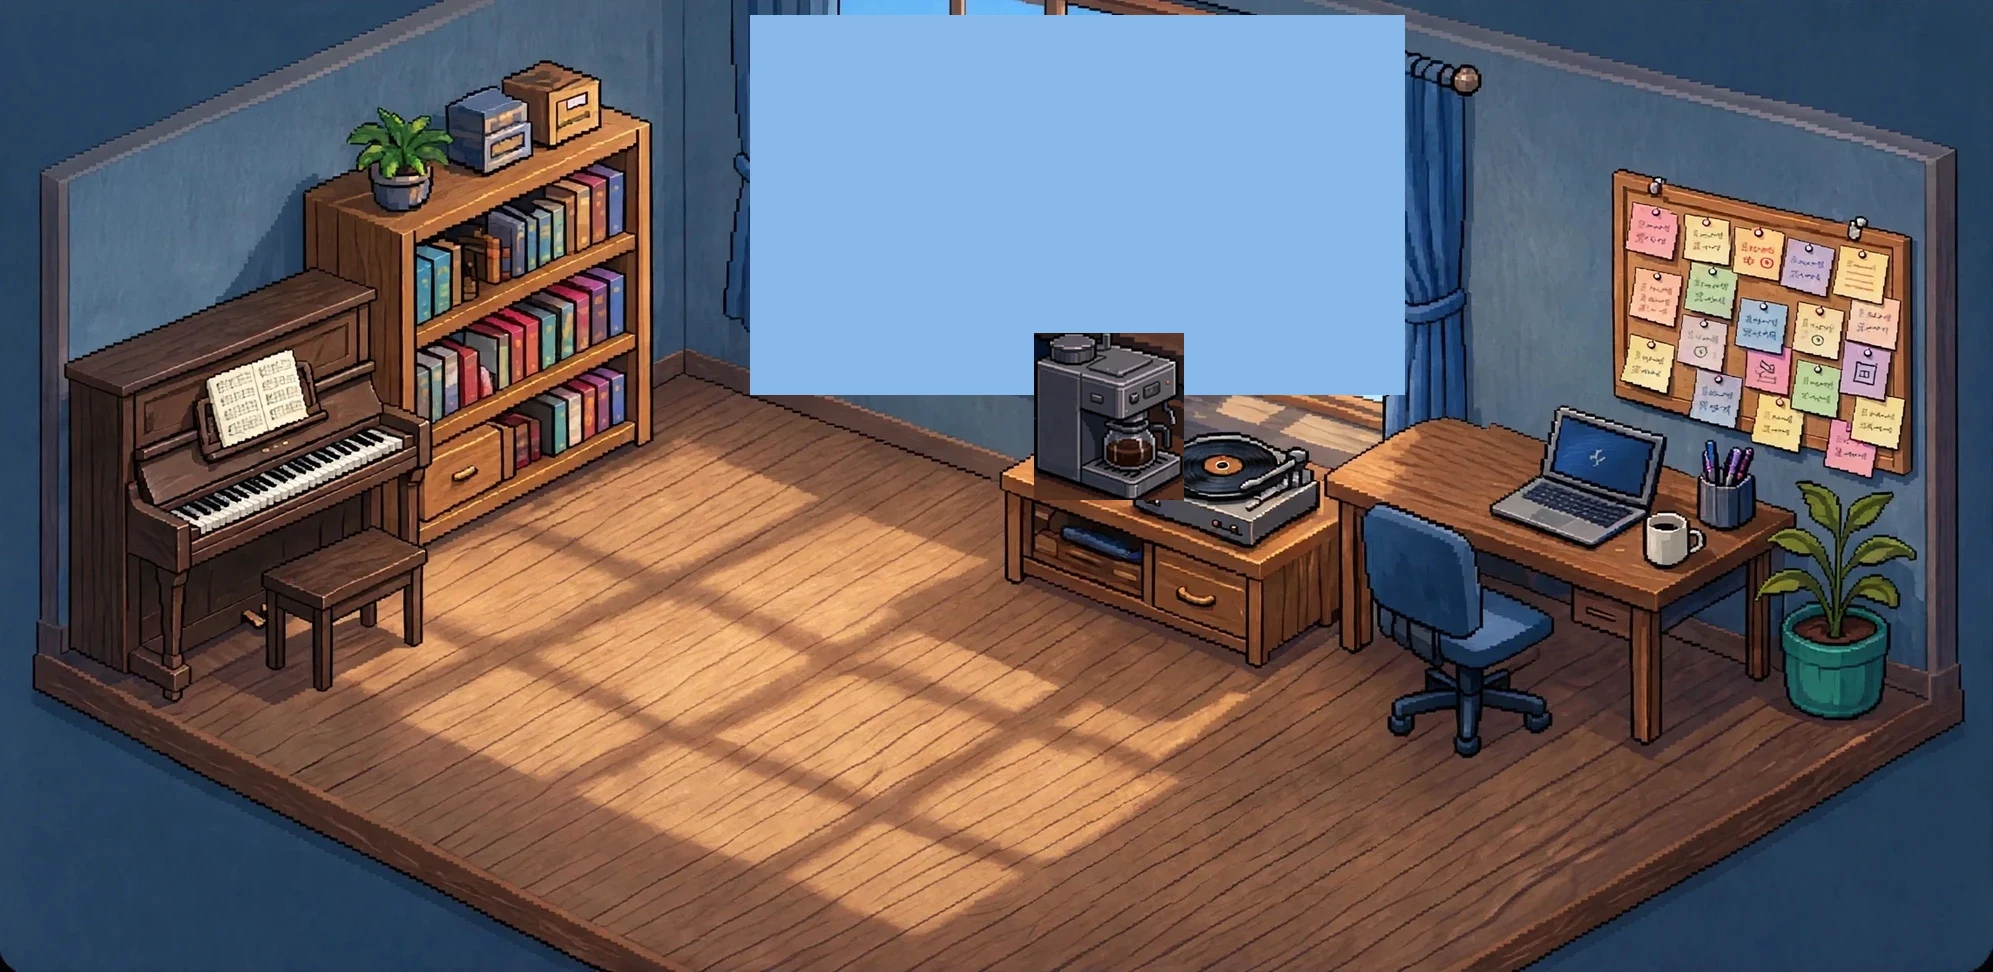
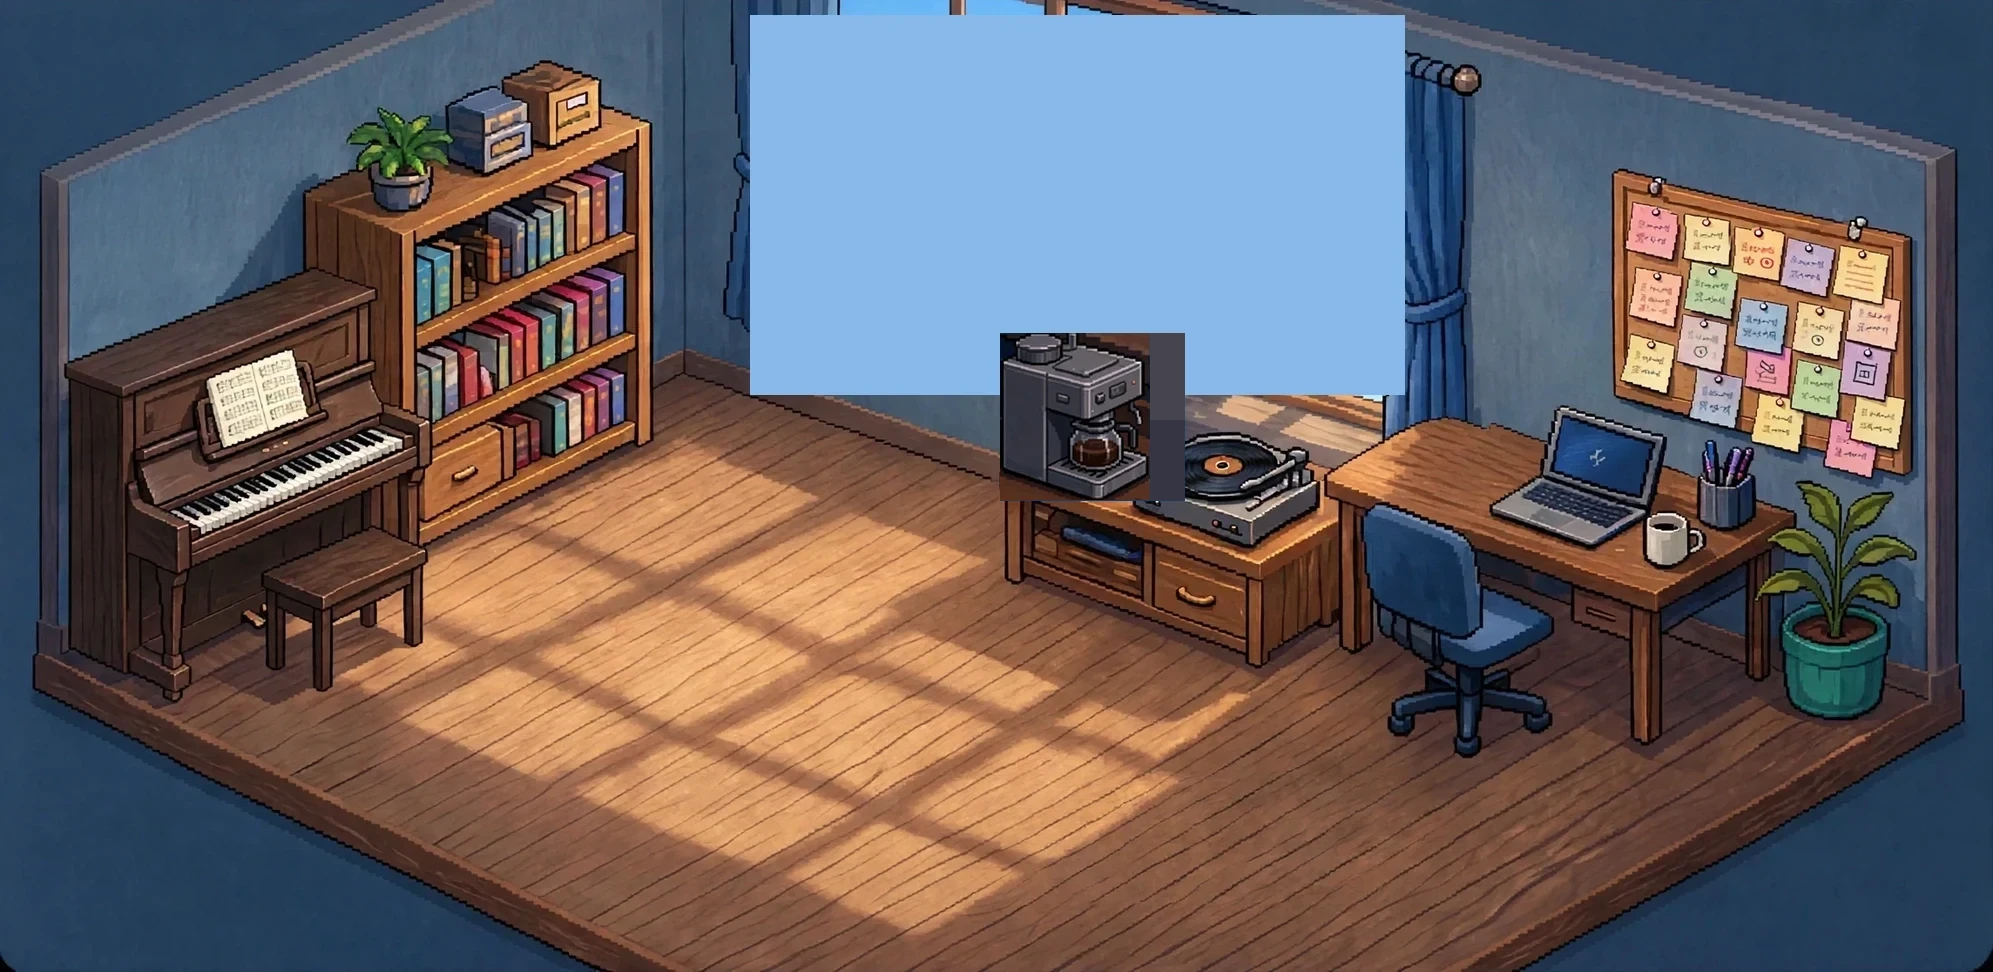
v5.0: SVG rebuild, single viewBox (no misalignment possible). Day/night plates cross-fade 06-18. SVG weather in window (Hangzhou live). Pixel-arrow hints, no text labels. Piano keys + vinyl with day/night coords. Tap-to-walk.

Changed region(s): [[0.4977, 0.3395, 0.6222, 0.5247]]

diff --git a/index.html b/index.html
@@ -19,6 +19,9 @@
   .hint.dim { opacity:.15; animation:none; }
   /* 人物阴影 */
   .shadow { fill:rgba(0,0,0,.28); }
+  /* 走路颠簸 */
+  @keyframes walkBob { 0%,100% { margin-top:0; } 50% { margin-top:-6px; } }
+  .walking { animation:walkBob .36s ease-in-out infinite; }
   /* 对话条 */
   #dialog { position:fixed; left:50%; transform:translateX(-50%); bottom:max(10px, env(safe-area-inset-bottom)); width:min(94vw,900px); z-index:50;
     background:#f7efdc; border:3px solid #7a5c3e; border-radius:12px; padding:10px 16px; font-size:16px; color:#4a3826;
@@ -39,7 +42,7 @@
 <div id="stage">
 <svg id="room" viewBox="0 0 1993 972" preserveAspectRatio="xMidYMid meet">
   <defs>
-    <clipPath id="winClip"><rect x="750" y="15" width="655" height="380" rx="4"/></clipPath>
+    <clipPath id="winClip"><rect x="735" y="12" width="550" height="248" rx="4"/></clipPath>
   </defs>
 
   <!-- ===== 底板（夜/日） ===== -->
@@ -48,26 +51,34 @@
 
   <!-- ===== 天气（窗户里） ===== -->
   <g id="wx" clip-path="url(#winClip)">
-    <rect id="wxSky" x="750" y="15" width="655" height="380" fill="#101a3d"/>
+    <rect id="wxSky" x="735" y="12" width="550" height="248" fill="#101a3d"/>
     <g id="wxSunMoon"></g>
     <g id="wxClouds"></g>
     <g id="wxCity"></g>
     <g id="wxPrecip"></g>
     <polygon id="wxBolt" points="" fill="#fffbe0" opacity="0"/>
-    <rect id="wxFlash" x="750" y="15" width="655" height="380" fill="#ffffff" opacity="0"/>
+    <rect id="wxFlash" x="735" y="12" width="550" height="248" fill="#ffffff" opacity="0"/>
   </g>
 
   <!-- ===== 钢琴键（12键） ===== -->
   <g id="keys"></g>
 
   <!-- ===== 唱片 ===== -->
+  <ellipse id="vinylShadow" cx="1249" cy="502" rx="58" ry="10" fill="rgba(0,0,0,.35)"/>
   <image id="vinyl" href="assets/disc.png" x="1191" y="429" width="116" height="77"/>
 
-  <!-- ===== 日历 ===== -->
+  <!-- ===== 日历（挂墙上） ===== -->
   <g id="cal">
+    <!-- 墙上的钉子 -->
+    <circle cx="1505" cy="88" r="6" fill="#4a4a4a" stroke="#222" stroke-width="2"/>
+    <!-- 挂绳 -->
+    <line x1="1505" y1="88" x2="1478" y2="118" stroke="#8a6d4a" stroke-width="3"/>
+    <line x1="1505" y1="88" x2="1532" y2="118" stroke="#8a6d4a" stroke-width="3"/>
+    <!-- 阴影（贴墙感） -->
+    <rect x="1449" y="124" width="120" height="180" rx="8" fill="rgba(0,0,0,.25)"/>
+    <!-- 本体 -->
     <rect x="1445" y="120" width="120" height="180" rx="8" fill="#f7f1e3" stroke="#7a5c3e" stroke-width="5"/>
     <rect x="1445" y="120" width="120" height="42" fill="#c0392b"/>
-    <circle cx="1475" cy="112" r="7" fill="#5a4a3a"/><circle cx="1535" cy="112" r="7" fill="#5a4a3a"/>
     <text id="calM" x="1505" y="150" text-anchor="middle" font-size="26" font-weight="700" fill="#fff">10月</text>
     <text id="calD" x="1505" y="225" text-anchor="middle" font-size="64" font-weight="800" fill="#333">21</text>
     <text id="calW" x="1505" y="268" text-anchor="middle" font-size="24" fill="#666">星期三</text>
@@ -91,7 +102,7 @@
 
   <!-- ===== 点击区 ===== -->
   <g id="zones" fill="#fff" opacity="0">
-    <rect data-id="piano" x="58" y="258" width="374" height="442"/>
+    <rect data-id="piano" x="58" y="258" width="182" height="442"/>
     <rect data-id="shelf" x="246" y="106" width="412" height="454"/>
     <rect data-id="window" x="735" y="5" width="685" height="400"/>
     <rect data-id="record" x="1000" y="420" width="353" height="232"/>
@@ -213,15 +224,31 @@ place(boy); place(girl);
 // 女孩跟着男孩
 let girlTarget = null;
 
-/* 简易寻路：直线 + 绕开猫 */
-const CAT = { x0:1032, x1:1265, y0:720, y1:806 };
+/* 寻路：直线 + 绕开障碍物（猫、家具） */
+const OBSTACLES = [
+  { x0:1032, x1:1265, y0:720, y1:806 },  // 猫
+  { x0:30, x1:450, y0:258, y1:700 },     // 钢琴
+  { x0:240, x1:660, y0:106, y1:560 },    // 书架
+  { x0:980, x1:1353, y0:380, y1:652 },   // 唱片柜
+  { x0:1290, x1:1770, y0:420, y1:730 },  // 书桌
+];
+function segHitsRect(x0,y0,x1,y1,r){
+  // 线段是否穿过矩形（简化：检查中点和端点）
+  const inR = (x,y)=> x>r.x0-20 && x<r.x1+20 && y>r.y0-20 && y<r.y1+20;
+  // 检查线段上的多个点
+  for(let t=0; t<=1; t+=0.1){
+    if(inR(x0+(x1-x0)*t, y0+(y1-y0)*t)) return true;
+  }
+  return false;
+}
 function planPath(x0,y0,x1,y1){
   const pts = [[x0,y0]];
-  // 如果直线穿过猫，加绕行点
-  const inCat = (x,y)=> x>CAT.x0-30 && x<CAT.x1+30 && y>CAT.y0-20 && y<CAT.y1+20;
-  if(inCat((x0+x1)/2,(y0+y1)/2) || inCat(x1,y1)){
-    pts.push([(CAT.x0+CAT.x1)/2, CAT.y1+60]);
-  }
+  // 找到所有会被穿过的障碍物，加绕行点（从下方绕过）
+  OBSTACLES.forEach(r=>{
+    if(segHitsRect(x0,y0,x1,y1,r)){
+      pts.push([(r.x0+r.x1)/2, r.y1+70]);
+    }
+  });
   pts.push([x1,y1]);
   return pts;
 }
@@ -229,6 +256,7 @@ let walking = false;
 function walkTo(tx, ty, done){
   if(walking) return; walking = true;
   dimHints(true);
+  boy.el.classList.add('walking'); girl.el.classList.add('walking');
   const path = planPath(boy.x, boy.y, tx, ty);
   let si = 0;
   const speed = 260; // px/s
@@ -243,6 +271,7 @@ function walkTo(tx, ty, done){
       si++;
       if(si >= path.length){
         walking = false; dimHints(false);
+        boy.el.classList.remove('walking'); girl.el.classList.remove('walking');
         // 女孩走过去
         walkGirl();
         if(done) done();
@@ -279,14 +308,22 @@ function walkGirl(){
   requestAnimationFrame(step);
 }
 
-const KEYS_NIGHT = { x0:171, y0:453, x1:396, y1:519 };
-const KEYS_DAY = { x0:175, y0:470, x1:375, y1:500 };
+// 钢琴键：实际键床位置（带透视），x 125-375, y 495-520，左低右高
+const KEYS_NIGHT = { x0:125, y0:495, x1:375, y1:520, skew:-0.08 };
+const KEYS_DAY = { x0:125, y0:495, x1:375, y1:520, skew:-0.08 };
 const KEYS = { n:12, els:[], cur:null };
 function buildKeys(pos){
   const g = $('keys'); g.innerHTML=''; KEYS.els=[];
-  const kw = (pos.x1-pos.x0)/KEYS.n;
+  const kw = (pos.x1-pos.x0)/KEYS.n, kh = pos.y1-pos.y0;
+  // 用 matrix 做透视倾斜：左低右高
+  const skewY = pos.skew * (pos.x1-pos.x0);
   for(let i=0;i<KEYS.n;i++){
-    const r = el('rect',{ x:pos.x0+i*kw+1, y:pos.y0, width:kw-2, height:pos.y1-pos.y0, fill:'#f2ede2', stroke:'#3a3128','stroke-width':1.5 },g);
+    const x = pos.x0 + i*kw;
+    // 每个键的 y 根据 x 位置做偏移（透视）
+    const yOff = (i/KEYS.n) * skewY;
+    const r = el('rect',{ x:x+1, y:pos.y0+yOff, width:kw-2, height:kh, fill:'#f2ede2', stroke:'#3a3128','stroke-width':1.5 },g);
+    // 给每个键单独的倾斜，让整体看起来有透视
+    r.setAttribute('transform', `skewY(${(pos.skew*57.3).toFixed(1)})`);
     KEYS.els.push(r);
   }
   KEYS.cur = pos;
@@ -294,12 +331,14 @@ function buildKeys(pos){
 function pressKey(i, down){
   const r = KEYS.els[i]; if(!r || !KEYS.cur) return;
   r.setAttribute('fill', down ? '#c9a86a' : '#f2ede2');
-  r.setAttribute('y', down ? KEYS.cur.y0+4 : KEYS.cur.y0);
+  const yOff = (i/KEYS.n) * KEYS.cur.skew * (KEYS.cur.x1-KEYS.cur.x0);
+  r.setAttribute('y', down ? KEYS.cur.y0+yOff+4 : KEYS.cur.y0+yOff);
 }
 /* ---------- 唱片（日夜双坐标） ---------- */
 const VINYL_NIGHT = { x:1191, y:429, w:116, h:77 };
 const VINYL_DAY = { x:1165, y:430, w:110, h:60 };
-function placeVinyl(pos){ const v=$('vinyl'); v.setAttribute('x',pos.x); v.setAttribute('y',pos.y); v.setAttribute('width',pos.w); v.setAttribute('height',pos.h); }
+function placeVinyl(pos){ const v=$('vinyl'); v.setAttribute('x',pos.x); v.setAttribute('y',pos.y); v.setAttribute('width',pos.w); v.setAttribute('height',pos.h);
+  const s=$('vinylShadow'); s.setAttribute('cx', pos.x+pos.w/2); s.setAttribute('cy', pos.y+pos.h+4); s.setAttribute('rx', pos.w/2); }
 
 /* ---------- 提示箭头（像素风） ---------- */
 const HINTS = [ ['piano',249,384], ['shelf',458,292], ['window',1096,160], ['record',1176,437], ['desk',1574,408], ['board',1764,292] ];
@@ -326,7 +365,7 @@ fetch('https://api.open-meteo.com/v1/forecast?latitude=30.2741&longitude=120.155
   }).catch(()=>{});
 
 /* ---------- SVG 天气（窗户里，750,15,655x380） ---------- */
-const WX = { x:750, y:15, w:655, h:380 };
+const WX = { x:735, y:12, w:550, h:248 };
 function drawWeather(){
   if(wxAnim) cancelAnimationFrame(wxAnim);
   const day = isDayNow(), kind = weather.kind;
@@ -339,10 +378,10 @@ function drawWeather(){
   else sky.setAttribute('fill', day?'#5f9de0':'#101a3d');
   // 太阳/月亮/星星
   if(kind==='clear'||kind==='cloud'){
-    if(day){ el('circle',{cx:1240,cy:80,r:34,fill:'#ffd94d'},gSun); el('circle',{cx:1240,cy:80,r:46,fill:'#ffd94d','fill-opacity':.3},gSun); }
+    if(day){ el('circle',{cx:1010,cy:60,r:28,fill:'#ffd94d'},gSun); el('circle',{cx:1010,cy:60,r:38,fill:'#ffd94d','fill-opacity':.3},gSun); }
     else {
       for(let i=0;i<50;i++) el('rect',{x:WX.x+Math.random()*WX.w, y:WX.y+Math.random()*180, width:2.5, height:2.5, fill:'#ffeec2'},gSun);
-      el('circle',{cx:1240,cy:80,r:26,fill:'#f5d76e'},gSun); el('circle',{cx:1230,cy:72,r:22,fill: day?'#5f9de0':'#101a3d'},gSun);
+      el('circle',{cx:1010,cy:60,r:22,fill:'#f5d76e'},gSun); el('circle',{cx:1002,cy:54,r:18,fill: day?'#5f9de0':'#101a3d'},gSun);
     }
   }
   // 云
@@ -356,9 +395,9 @@ function drawWeather(){
     clouds.push({e:c, x:cx, ox:cx, v:.2+Math.random()*.3});
   }
   // 城市剪影
-  const cityB = [[760,245,70,150],[845,275,55,120],[915,230,80,165],[1010,265,60,130],[1080,240,75,155],[1170,280,55,115],[1235,250,78,145],[1325,275,60,120]];
+  const cityB = [[745,150,60,86],[815,170,48,66],[870,140,70,96],[950,165,52,71],[1010,145,65,91],[1085,175,48,61],[1140,155,68,81],[1215,170,55,66]];
   cityB.forEach(b=> el('rect',{x:b[0],y:b[1],width:b[2],height:b[3],fill: day?'#5d7ba6':'#0c1330'},gCity));
-  if(!day) for(let i=0;i<70;i++) el('rect',{x:766+((i*53)%620), y:260+((i*29)%110), width:4, height:4, fill:'#ffca7a'},gCity);
+  if(!day) for(let i=0;i<50;i++) el('rect',{x:750+((i*53)%520), y:155+((i*29)%70), width:4, height:4, fill:'#ffca7a'},gCity);
   el('rect',{x:WX.x, y:WX.y+WX.h-24, width:WX.w, height:24, fill: day?'#7d94b5':'#090f24'},gCity);
   // 降水粒子
   const parts = [];
@@ -379,7 +418,7 @@ function drawWeather(){
       if(flashT<=0){ flash=14; flashT=140+Math.random()*300; }
       if(flash>0){ flash--;
         $('wxFlash').setAttribute('opacity', .5*(flash/14));
-        if(flash>8){ const lx=900+Math.random()*300;
+        if(flash>8){ const lx=850+Math.random()*250;
           $('wxBolt').setAttribute('points', `${lx},15 ${lx-32},105 ${lx+8},105 ${lx-42},215 ${lx-6},215 ${lx-48},345`);
           $('wxBolt').setAttribute('opacity',.95);
         } else $('wxBolt').setAttribute('opacity',0);
